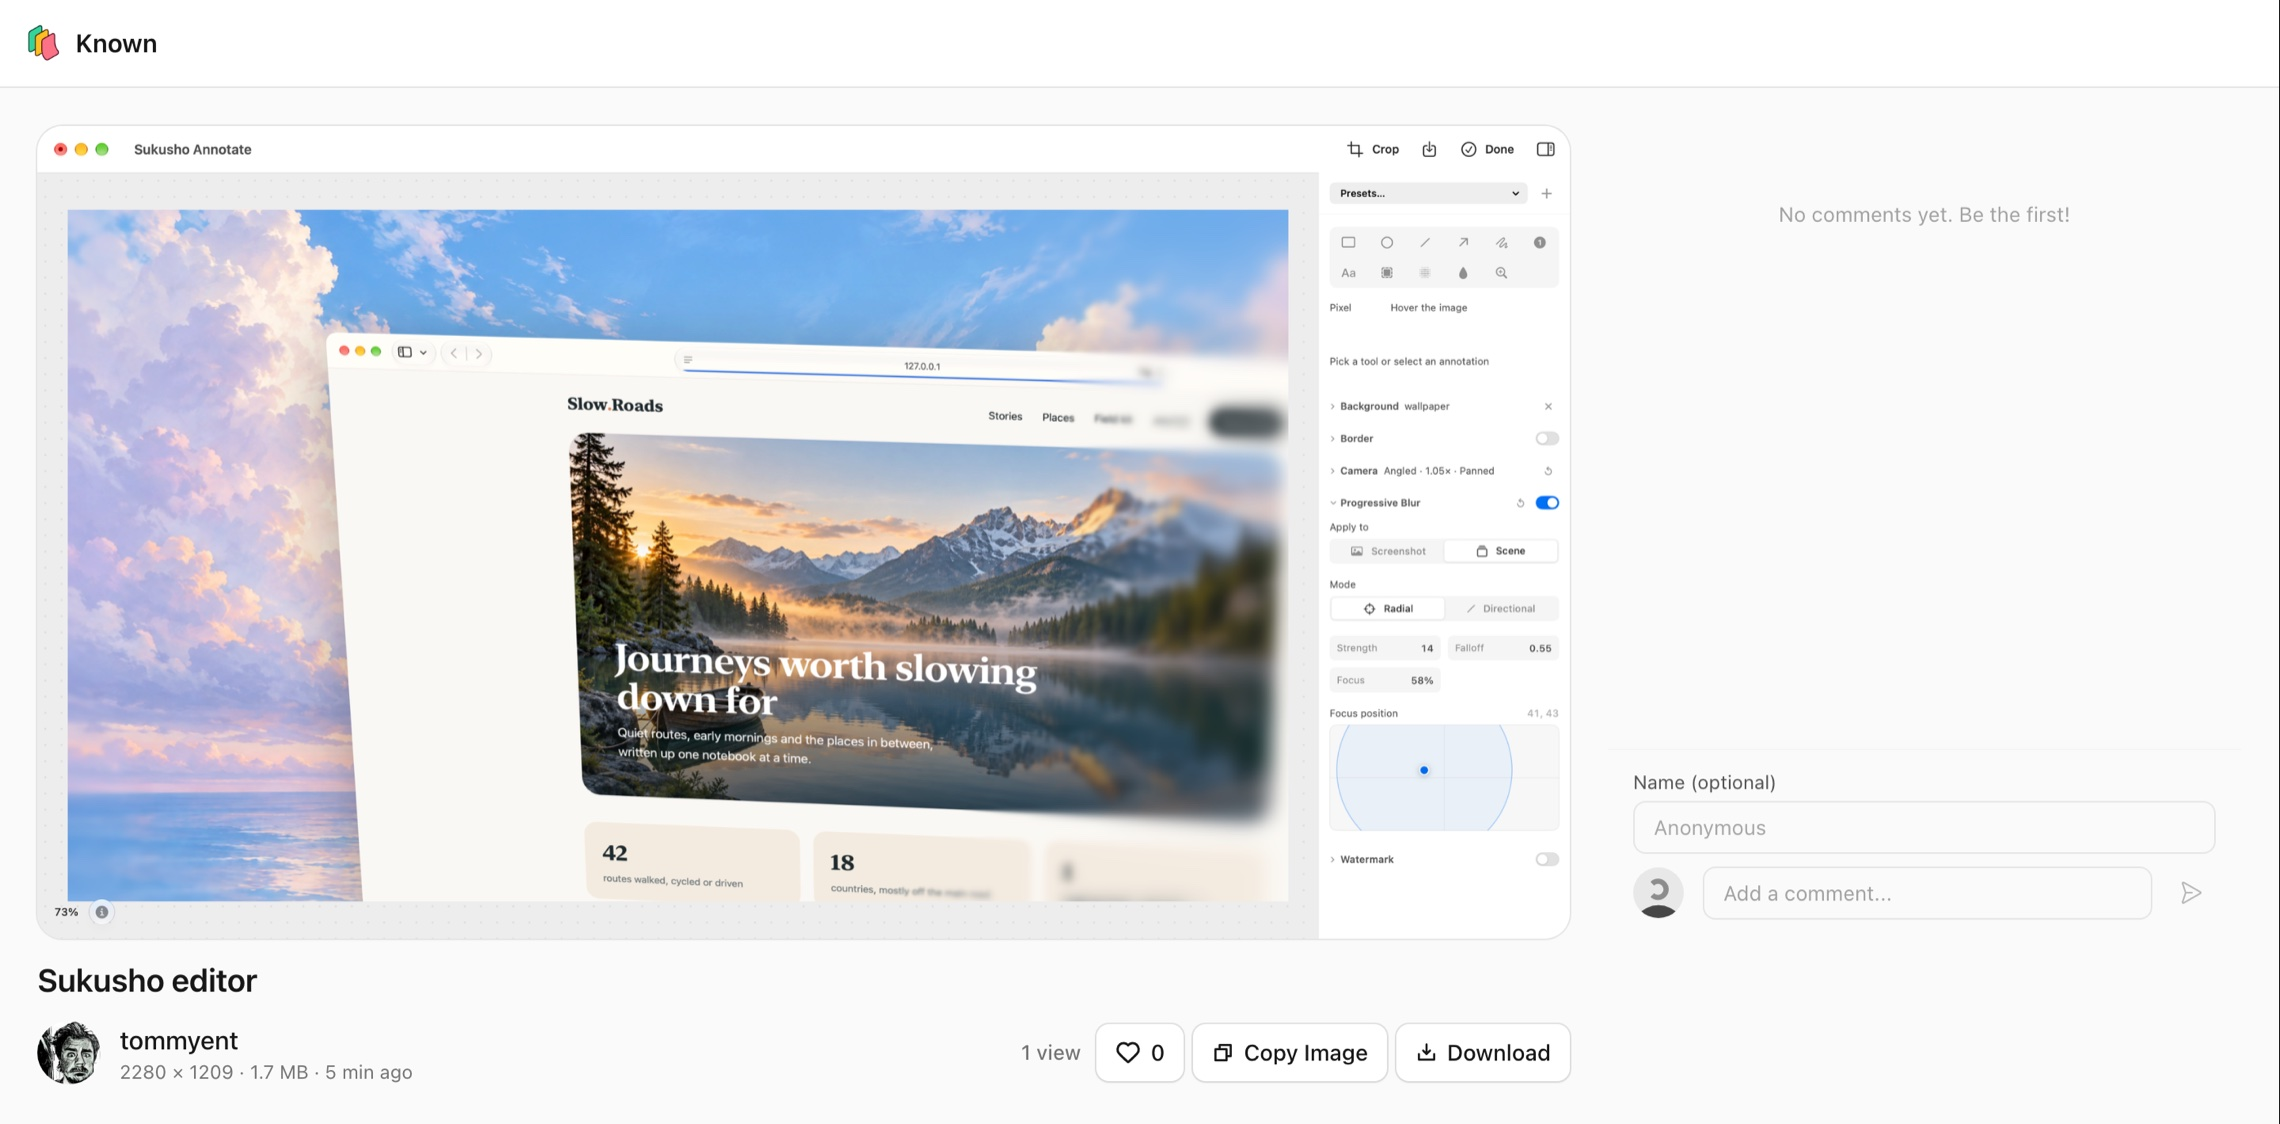
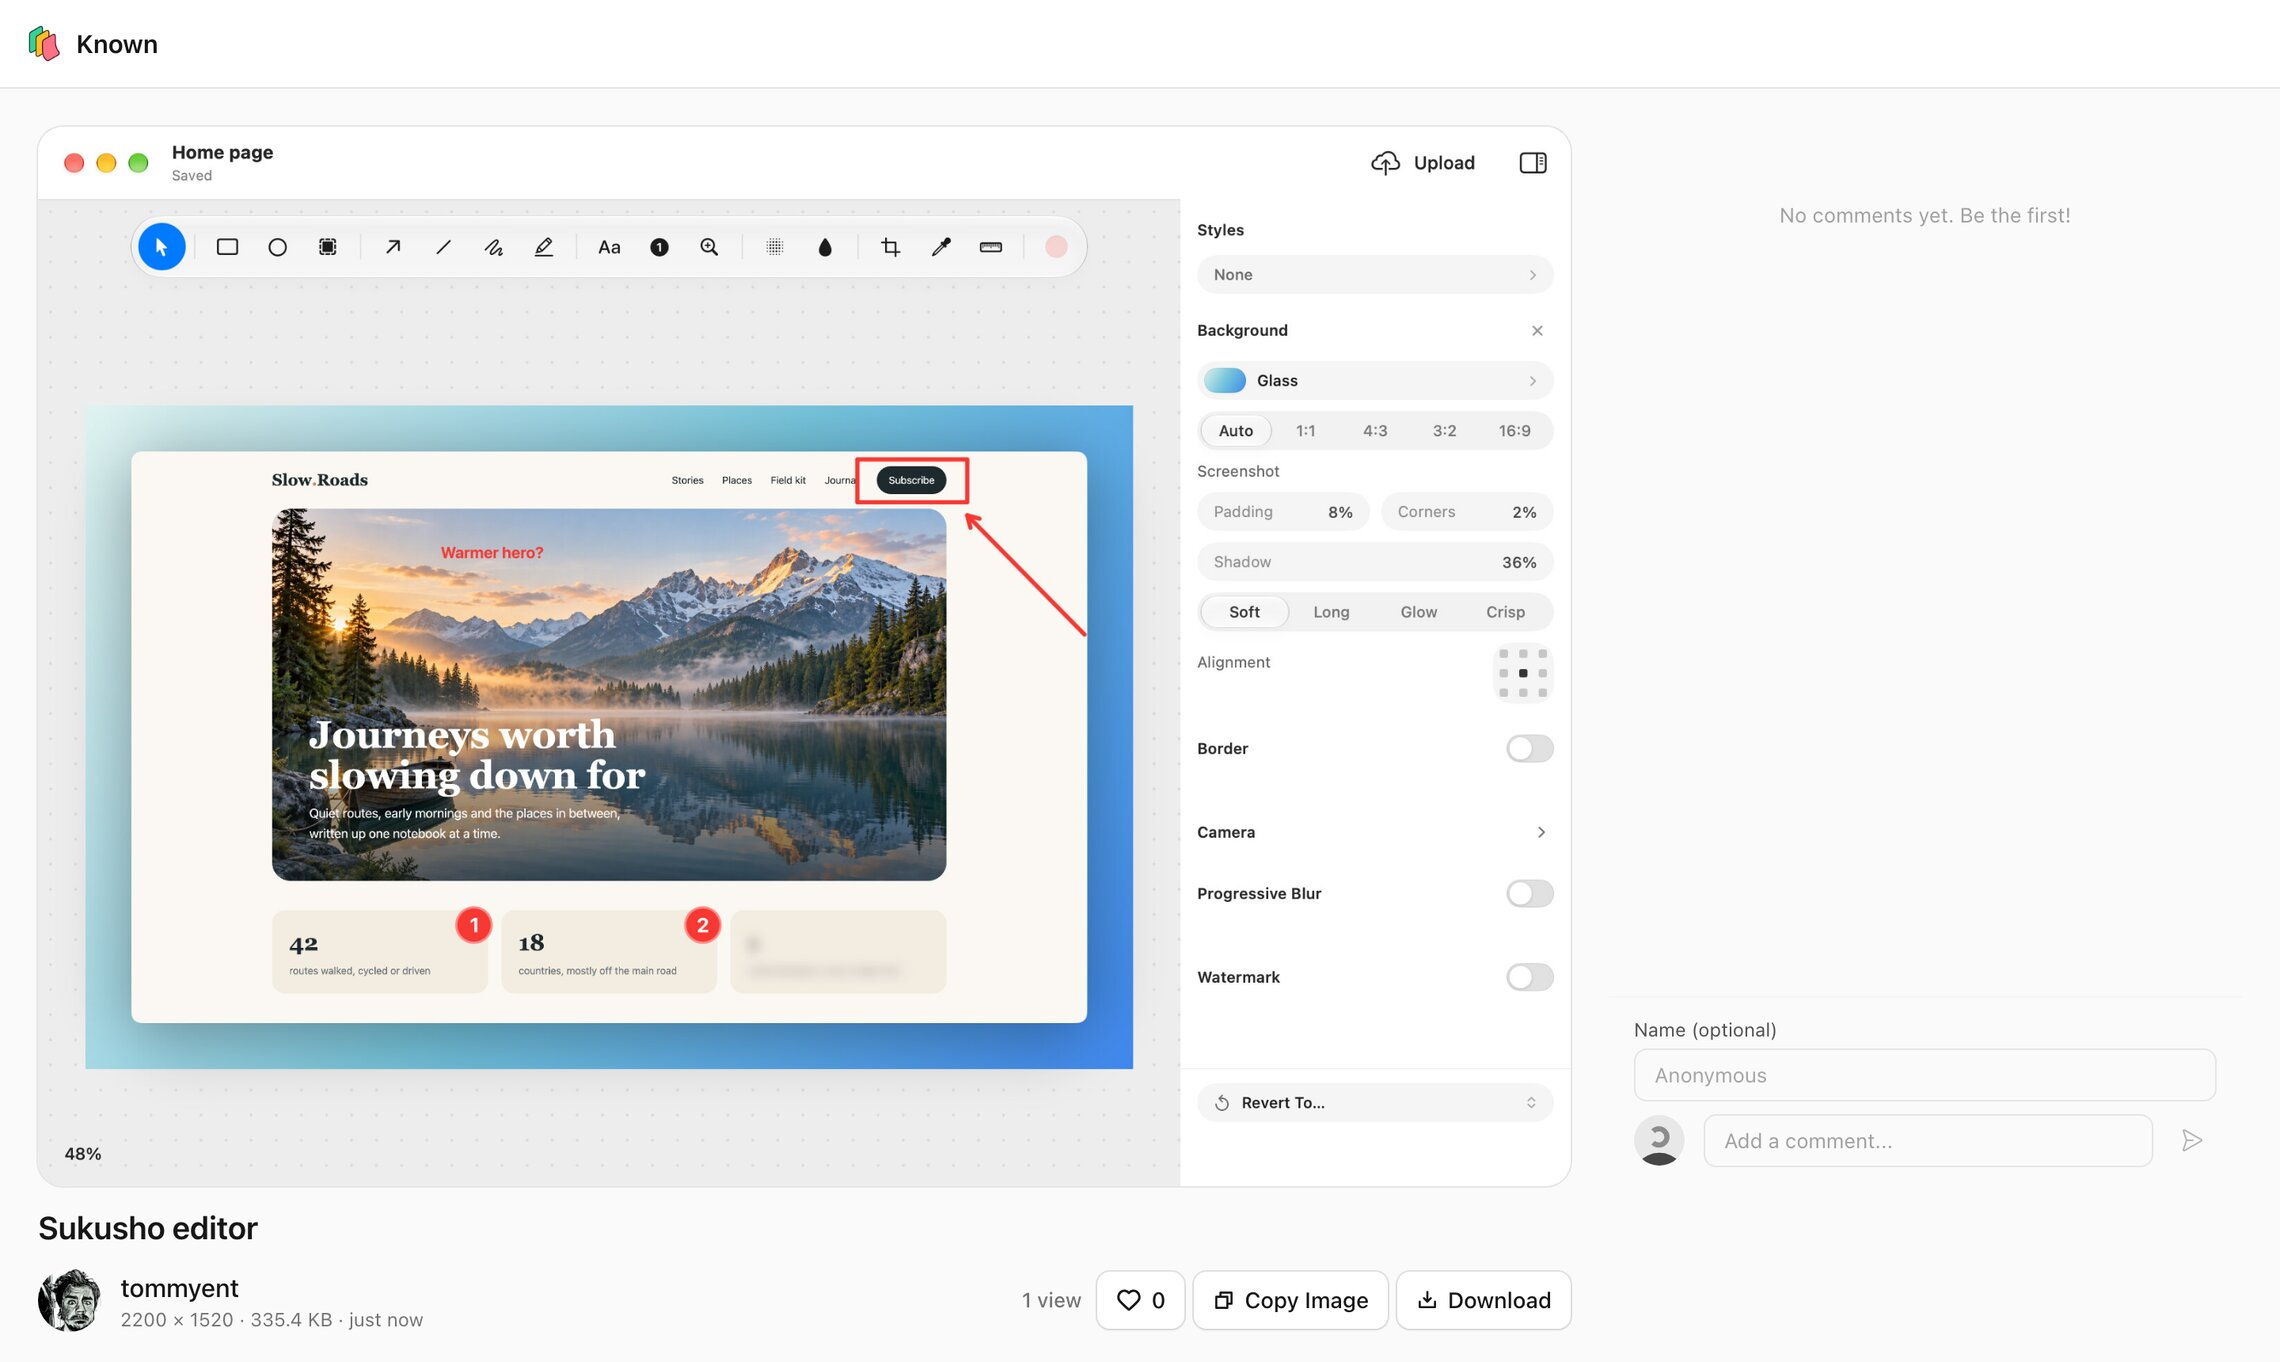
docs: point the README at the new demo share
The demo share now holds the current editor screenshot (cfcda18c); the old
one (9bbf099d) is gone. share-page.jpg is retaken from the new share with
headless Chrome, cropped taller so the owner row and buttons stay in frame,
and both README links point at it.

diff --git a/README.md b/README.md
@@ -15,9 +15,9 @@ Sukusho started as a fork of [Screendrop](https://github.com/fayazara/Screendrop
 > [!NOTE]
 > There are no releases yet. To use Sukusho, [build it from source](#building-from-source). It is under active development, so expect rough edges.
 
-<a href="https://screendrop-worker.tommyent.workers.dev/9bbf099d"><img src="docs/screenshots/share-page.jpg" alt="A Sukusho share page in a browser: a screenshot of the Sukusho editor titled Sukusho editor, with its size, a view count, a like button, Copy Image and Download below it, and a comment box beside it" width="100%"></a>
+<a href="https://screendrop-worker.tommyent.workers.dev/cfcda18c"><img src="docs/screenshots/share-page.jpg" alt="A Sukusho share page in a browser: a screenshot of the Sukusho editor marking up a travel website, titled Sukusho editor, with its size, a view count, a like button, Copy Image and Download below it, and a comment box beside it" width="100%"></a>
 
-This is what the person you send a link to sees: the capture, a like button, Copy Image and Download, and a place to comment. The page carries the name and logo you choose in Sukusho's settings. [Open this demo share](https://screendrop-worker.tommyent.workers.dev/9bbf099d).
+This is what the person you send a link to sees: the capture, a like button, Copy Image and Download, and a place to comment. The page carries the name and logo you choose in Sukusho's settings. [Open this demo share](https://screendrop-worker.tommyent.workers.dev/cfcda18c).
 
 ## Screenshots
 
